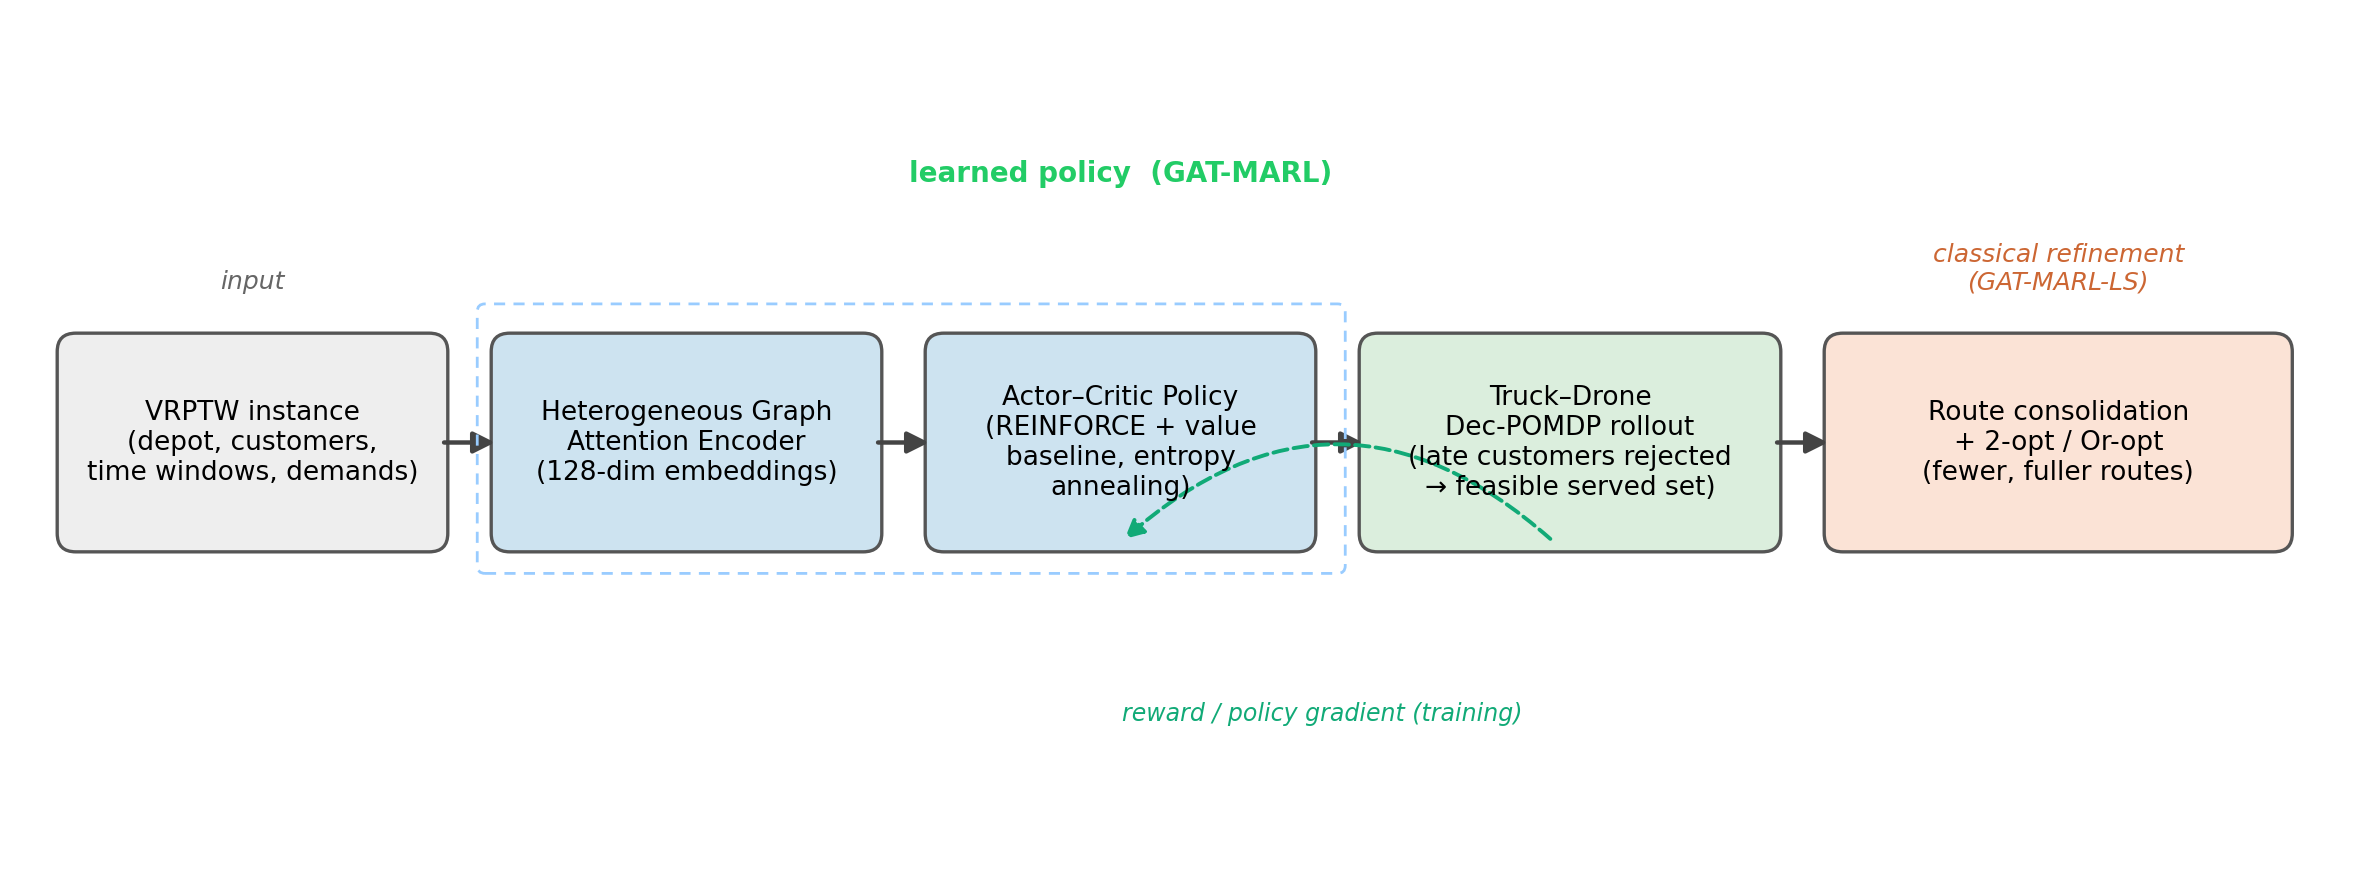
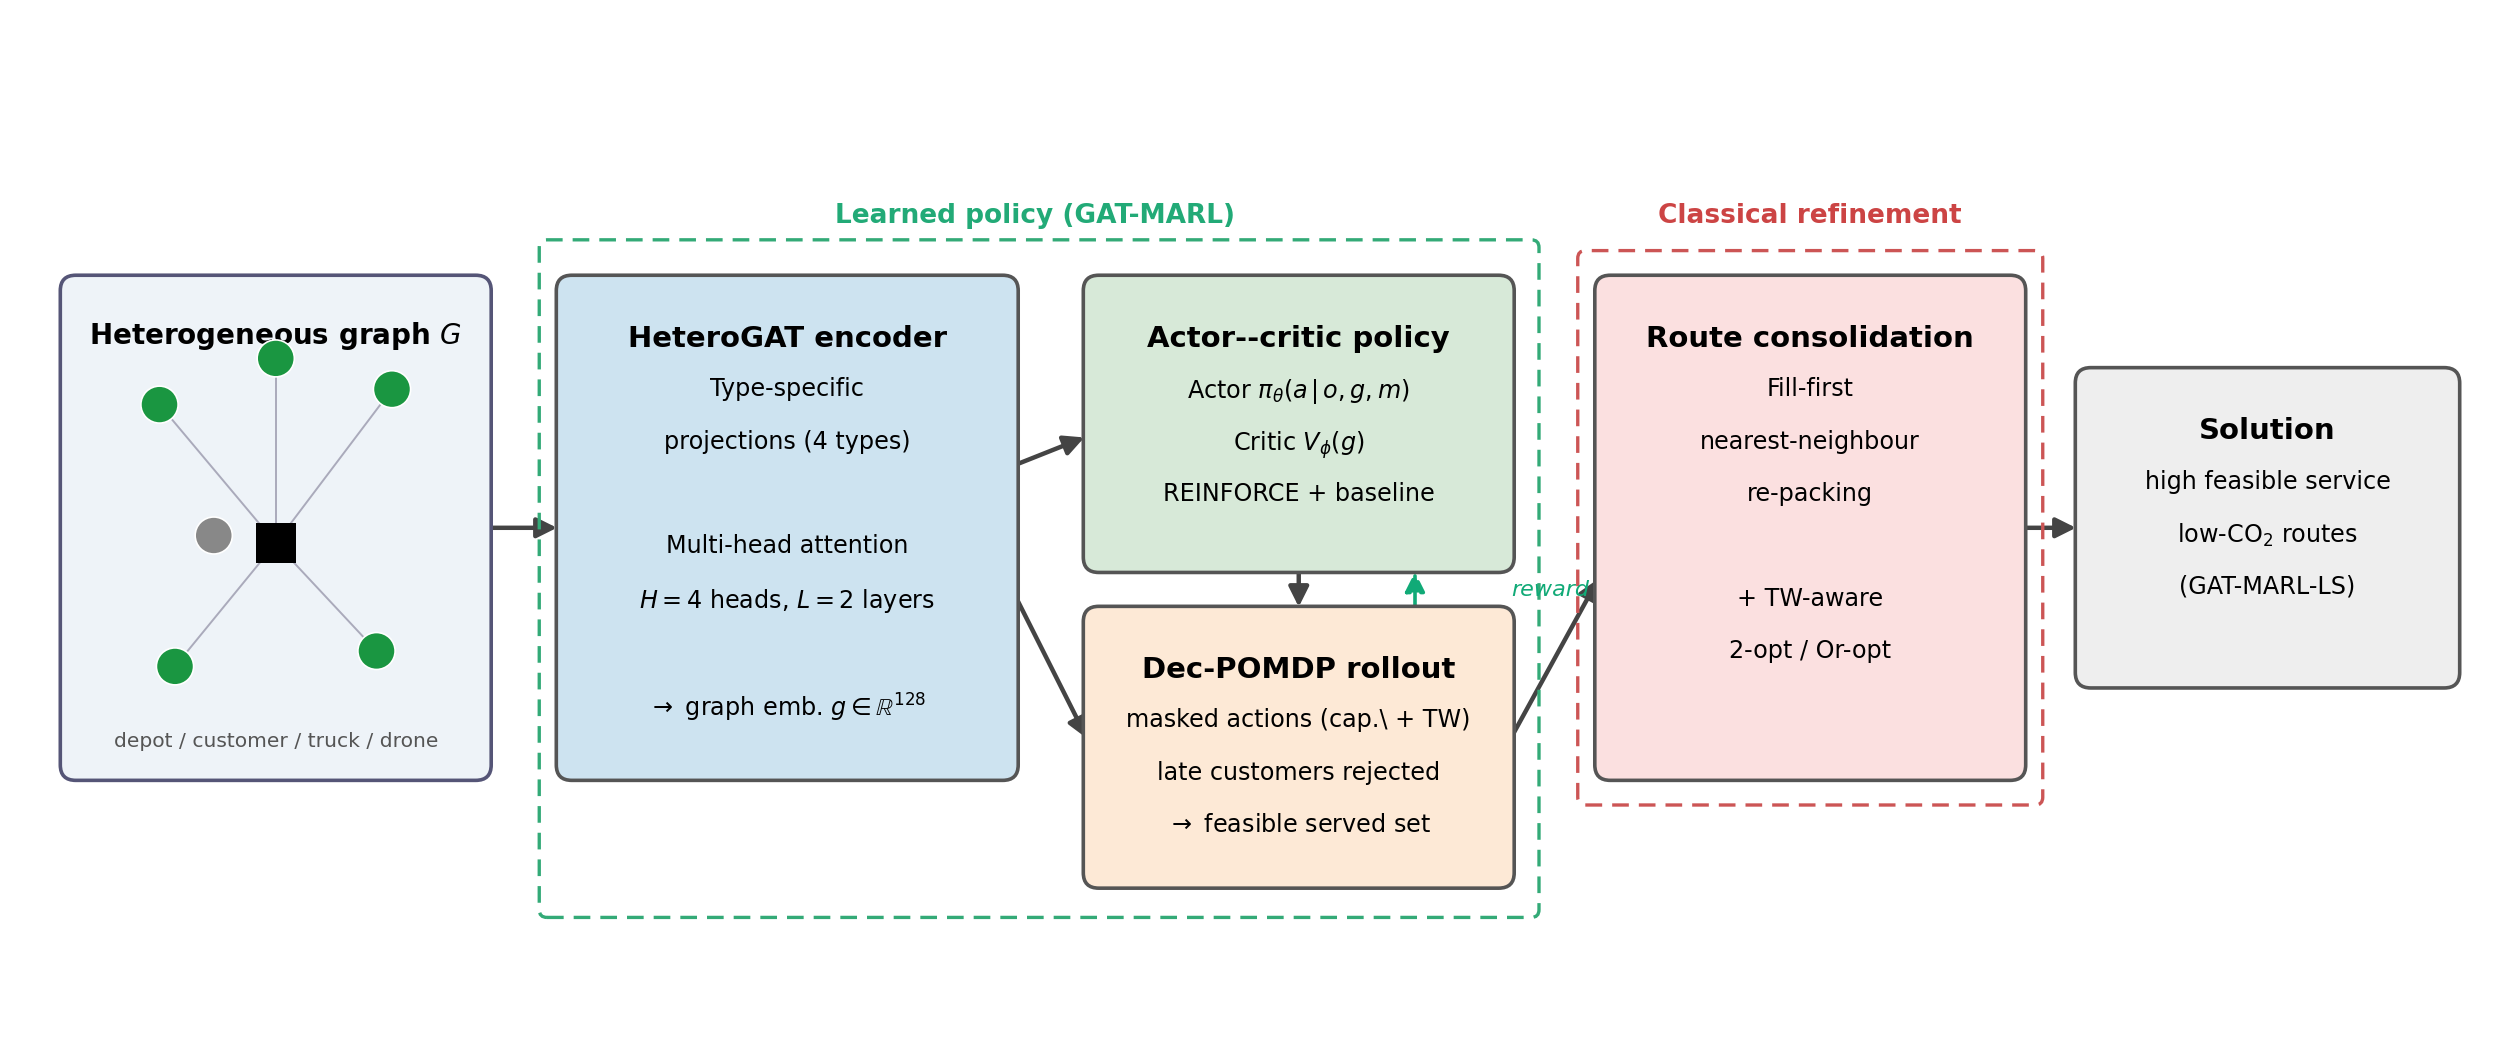
Improve architecture figure detail

diff --git a/src/make_architecture_figure.py b/src/make_architecture_figure.py
@@ -1,44 +1,77 @@
-"""Figure: system architecture / method pipeline (schematic)."""
+"""Figure: detailed GAT-MARL-LS architecture (heterogeneous graph -> encoder ->
+actor-critic policy -> Dec-POMDP rollout -> consolidation/2-opt refinement)."""
 import matplotlib; matplotlib.use("Agg")
 import matplotlib.pyplot as plt
-from matplotlib.patches import FancyBboxPatch, FancyArrowPatch
+from matplotlib.patches import FancyBboxPatch, FancyArrowPatch, Circle, Rectangle
+import numpy as np
 from pathlib import Path
 
 ROOT = Path(__file__).parent.parent
 FIG = ROOT / "figures"; FIG.mkdir(exist_ok=True)
 
-fig, ax = plt.subplots(figsize=(15, 5.5))
-ax.set_xlim(0, 15); ax.set_ylim(0, 5.5); ax.axis("off")
+fig, ax = plt.subplots(figsize=(16, 6.6))
+ax.set_xlim(0, 16); ax.set_ylim(0, 6.6); ax.axis("off")
 
-LEARN = "#cde3f0"; ENVC = "#dbeedd"; POST = "#fbe3d6"; IO = "#eeeeee"
-boxes = [
-    (0.3, 2.1, 2.4, 1.3, IO,    "VRPTW instance\n(depot, customers,\ntime windows, demands)"),
-    (3.1, 2.1, 2.4, 1.3, LEARN, "Heterogeneous Graph\nAttention Encoder\n(128-dim embeddings)"),
-    (5.9, 2.1, 2.4, 1.3, LEARN, "Actor–Critic Policy\n(REINFORCE + value\nbaseline, entropy\nannealing)"),
-    (8.7, 2.1, 2.6, 1.3, ENVC,  "Truck–Drone\nDec-POMDP rollout\n(late customers rejected\n→ feasible served set)"),
-    (11.7, 2.1, 2.9, 1.3, POST, "Route consolidation\n+ 2-opt / Or-opt\n(fewer, fuller routes)"),
-]
-for (x, y, w, h, col, txt) in boxes:
-    ax.add_patch(FancyBboxPatch((x, y), w, h, boxstyle="round,pad=0.06,rounding_size=0.12",
-                                facecolor=col, edgecolor="#555", linewidth=1.2))
-    ax.text(x + w/2, y + h/2, txt, ha="center", va="center", fontsize=9.5)
+GRAPHC = "#eef3f8"; ENC = "#cde3f0"; POL = "#d7e9d8"; ENVC = "#fde9d6"; POST = "#fbe0e0"
+def box(x, y, w, h, c, title, lines, ec="#555"):
+    ax.add_patch(FancyBboxPatch((x, y), w, h, boxstyle="round,pad=0.04,rounding_size=0.10",
+                                facecolor=c, edgecolor=ec, linewidth=1.3, zorder=2))
+    ax.text(x+w/2, y+h-0.28, title, ha="center", va="top", fontsize=10.5, fontweight="bold", zorder=3)
+    for i, ln in enumerate(lines):
+        ax.text(x+w/2, y+h-0.62-0.34*i, ln, ha="center", va="top", fontsize=8.6, zorder=3)
 
-def arrow(x0, x1, y=2.75, **kw):
-    ax.add_patch(FancyArrowPatch((x0, y), (x1, y), arrowstyle="-|>", mutation_scale=16,
-                                 color="#444", lw=1.6, **kw))
-arrow(2.7, 3.1); arrow(5.5, 5.9); arrow(8.3, 8.7); arrow(11.3, 11.7)
+# (1) heterogeneous graph illustration
+gx, gy, gw, gh = 0.3, 1.7, 2.7, 3.2
+ax.add_patch(FancyBboxPatch((gx, gy), gw, gh, boxstyle="round,pad=0.04,rounding_size=0.10",
+                            facecolor=GRAPHC, edgecolor="#557", linewidth=1.3, zorder=2))
+ax.text(gx+gw/2, gy+gh-0.25, "Heterogeneous graph $G$", ha="center", va="top", fontsize=10, fontweight="bold")
+np.random.seed(3)
+depot = (gx+gw/2, gy+1.5)
+custs = [(gx+0.6, gy+2.4), (gx+2.1, gy+2.5), (gx+0.7, gy+0.7), (gx+2.0, gy+0.8), (gx+1.35, gy+2.7)]
+for c in custs:
+    ax.plot([depot[0], c[0]], [depot[1], c[1]], color="#aab", lw=0.7, zorder=2)
+    ax.add_patch(Circle(c, 0.12, facecolor="#1a9641", edgecolor="white", lw=0.6, zorder=3))
+ax.add_patch(Circle((gx+0.95, gy+1.55), 0.12, facecolor="#888", edgecolor="white", lw=0.6, zorder=3))  # drone
+ax.add_patch(Rectangle((depot[0]-0.13, depot[1]-0.13), 0.26, 0.26, facecolor="black", zorder=4))  # depot
+ax.text(gx+gw/2, gy+0.18, "depot / customer / truck / drone", ha="center", fontsize=7.3, color="#555")
 
-# training feedback loop (env -> policy)
-ax.add_patch(FancyArrowPatch((9.9, 2.1), (7.1, 2.1), connectionstyle="arc3,rad=0.45",
-                             arrowstyle="-|>", mutation_scale=14, color="#1a7", lw=1.4, ls="--"))
-ax.text(8.4, 0.95, "reward / policy gradient (training)", ha="center", fontsize=8.5, color="#1a7", style="italic")
+# (2) encoder
+box(3.5, 1.7, 2.9, 3.2, ENC, "HeteroGAT encoder",
+    ["Type-specific", "projections (4 types)", "", "Multi-head attention", "$H{=}4$ heads, $L{=}2$ layers", "", "$\\rightarrow$ graph emb. $g\\in\\mathbb{R}^{128}$"])
+# (3) policy
+box(6.9, 3.05, 2.7, 1.85, POL, "Actor--critic policy",
+    ["Actor $\\pi_\\theta(a\\,|\\,o,g,m)$", "Critic $V_\\phi(g)$", "REINFORCE + baseline"])
+# (4) environment
+box(6.9, 1.0, 2.7, 1.75, ENVC, "Dec-POMDP rollout",
+    ["masked actions (cap.\\ + TW)", "late customers rejected", "$\\rightarrow$ feasible served set"])
+# (5) consolidation
+box(10.2, 1.7, 2.7, 3.2, POST, "Route consolidation",
+    ["Fill-first", "nearest-neighbour", "re-packing", "", "+ TW-aware", "2-opt / Or-opt"])
+# (6) output
+box(13.3, 2.3, 2.4, 2.0, "#eeeeee", "Solution",
+    ["high feasible service", "low-CO$_2$ routes", "(GAT-MARL-LS)"])
 
-# stage labels above
-ax.text(1.5, 3.75, "input", ha="center", fontsize=9, color="#666", style="italic")
-ax.text(7.1, 4.45, "learned policy  (GAT-MARL)", ha="center", fontsize=10, color="#2c6", fontweight="bold")
-ax.add_patch(FancyBboxPatch((3.0, 1.95), 5.5, 1.65, boxstyle="round,pad=0.05",
-                            fill=False, edgecolor="#9cf", linewidth=1.0, linestyle=(0,(4,3))))
-ax.text(13.15, 3.75, "classical refinement\n(GAT-MARL-LS)", ha="center", fontsize=9, color="#c63", style="italic")
+def arrow(x0, y0, x1, y1, c="#444", style="-|>", rad=0.0, ls="-", lw=1.6):
+    ax.add_patch(FancyArrowPatch((x0, y0), (x1, y1), arrowstyle=style, mutation_scale=15,
+                                 color=c, lw=lw, ls=ls,
+                                 connectionstyle=f"arc3,rad={rad}", zorder=1))
+arrow(3.0, 3.3, 3.5, 3.3)            # graph -> encoder
+arrow(6.4, 3.7, 6.9, 3.9)            # encoder -> policy
+arrow(6.4, 2.9, 6.9, 1.9)            # encoder -> env
+arrow(8.25, 3.05, 8.25, 2.75)       # policy -> env (act)
+arrow(9.6, 1.9, 10.2, 3.0)           # env -> consolidation (served set)
+arrow(12.9, 3.3, 13.3, 3.3)          # consolidation -> solution
+# training feedback (env -> policy)
+arrow(9.0, 2.75, 9.0, 3.05, c="#1a7", style="-|>", ls=(0,(4,3)), lw=1.3)
+ax.text(9.62, 2.86, "reward", fontsize=8, color="#1a7", style="italic")
+
+# grouping brackets
+ax.add_patch(FancyBboxPatch((3.4, 0.82), 6.35, 4.3, boxstyle="round,pad=0.05",
+                            fill=False, edgecolor="#3a7", lw=1.2, ls=(0,(5,3)), zorder=1))
+ax.text(6.55, 5.28, "Learned policy (GAT-MARL)", ha="center", fontsize=9.5, color="#2a7", fontweight="bold")
+ax.add_patch(FancyBboxPatch((10.1, 1.55), 2.9, 3.5, boxstyle="round,pad=0.05",
+                            fill=False, edgecolor="#c55", lw=1.2, ls=(0,(5,3)), zorder=1))
+ax.text(11.55, 5.28, "Classical refinement", ha="center", fontsize=9.5, color="#c44", fontweight="bold")
 
 out = FIG / "fig_architecture.png"
 plt.savefig(out, bbox_inches="tight", dpi=200); plt.close()